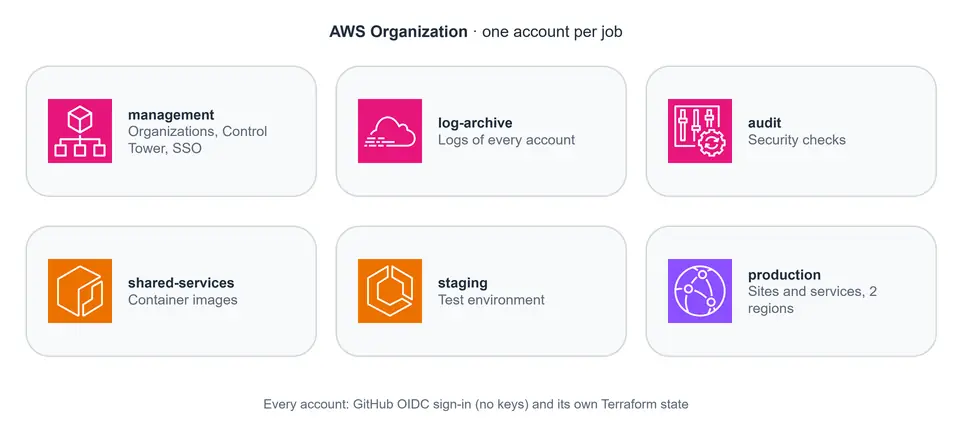
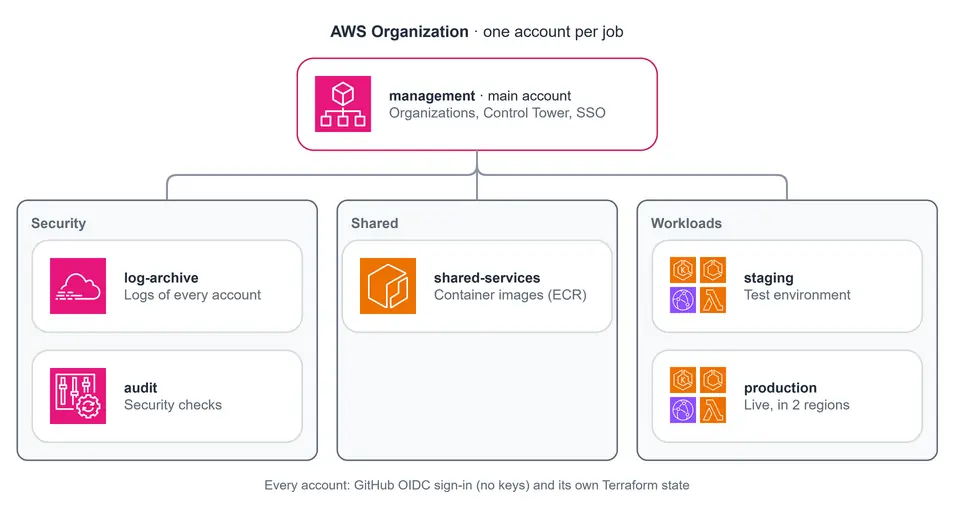
feat(ui): AWS accounts diagram as a hierarchy (S3, criterion 9)
The user asked to show what sits under what: management is the main
account on top, and under it three groups, Security (log-archive,
audit), Shared (shared-services) and Workloads (staging, production).
Staging and production carry the same four small logos (EKS, ECS,
CloudFront, Lambda) in the space of one icon. The alt text follows the
new structure.

diff --git a/site/index.html b/site/index.html
@@ -237,7 +237,7 @@
                 <button class="arch-tabs__tab" type="button" role="tab" id="tab-eks" aria-controls="panel-eks" aria-selected="false" tabindex="-1">EKS <span class="arch-tabs__badge">planned</span></button>
               </div>
               <div class="arch-wrap" role="tabpanel" id="panel-accounts" aria-labelledby="tab-accounts" tabindex="0">
-                <img src="/img/arch/aws-accounts-1x.webp" srcset="/img/arch/aws-accounts-1x.webp 954w, /img/arch/aws-accounts-2x.webp 1908w" sizes="(max-width: 760px) 36rem, 66rem" width="954" height="434" alt="AWS Organization with one account per job: management (Organizations, Control Tower, SSO), log-archive (logs of every account), audit (security checks), shared-services (container images), staging (test environment) and production (sites and services in two regions). Every account signs in GitHub through OIDC, with no keys, and has its own Terraform state.">
+                <img src="/img/arch/aws-accounts-1x.webp" srcset="/img/arch/aws-accounts-1x.webp 955w, /img/arch/aws-accounts-2x.webp 1910w" sizes="(max-width: 760px) 36rem, 66rem" width="955" height="515" alt="AWS Organization, one account per job. The management account is the main account (Organizations, Control Tower, SSO). Under it: Security, with log-archive (logs of every account) and audit (security checks); Shared, with shared-services (container images in ECR); and Workloads, with staging (test environment) and production (live, in two regions), both running EKS, ECS, CloudFront and Lambda. Every account signs in GitHub through OIDC, with no keys, and has its own Terraform state.">
               </div>
               <div class="arch-wrap" role="tabpanel" id="panel-github" aria-labelledby="tab-github" tabindex="0">
                 <img src="/img/arch/github-1x.webp" srcset="/img/arch/github-1x.webp 955w, /img/arch/github-2x.webp 1909w" sizes="(max-width: 760px) 36rem, 66rem" width="955" height="293" loading="lazy" alt="Every change goes through a pull request: plan with a read-only role, approval per account, then apply of exactly that plan, signing in to AWS through OIDC with no keys. Every night a drift check compares AWS with the code and opens an issue if they differ.">
